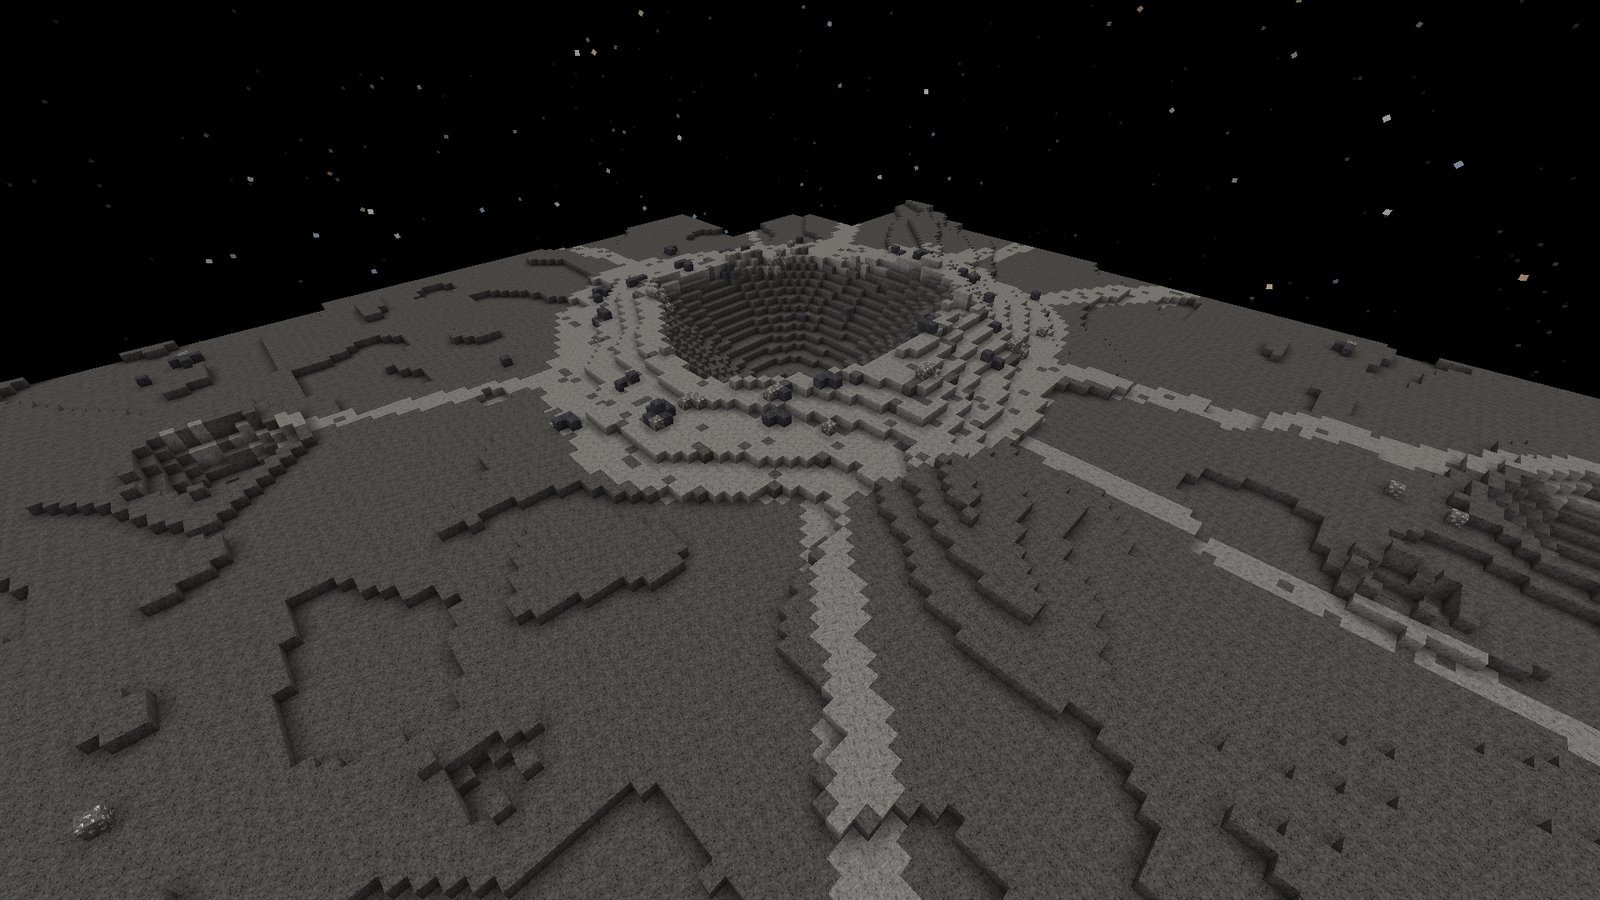
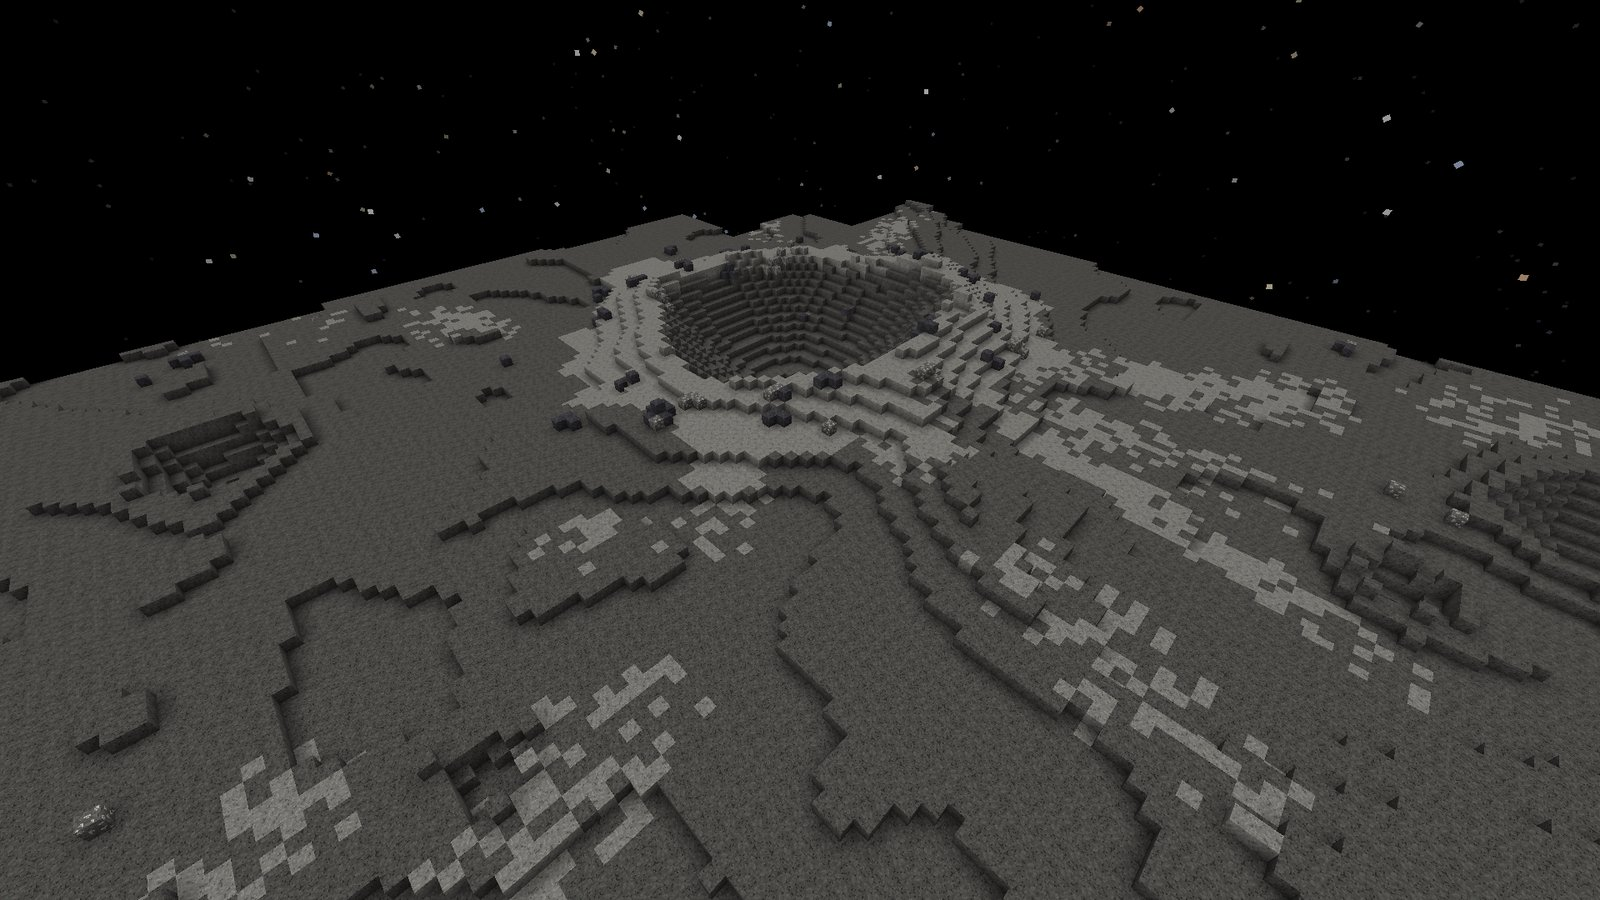
Moon: natural crater ray ejecta, Moon tech disks in dungeon loot (from dev/moon)

diff --git a/src/main/java/com/pizzaparker07/spacebreaker/content/worldgen/Crater.java b/src/main/java/com/pizzaparker07/spacebreaker/content/worldgen/Crater.java
@@ -85,20 +85,75 @@ public record Crater(double x, double z, double radius, double depth, double rim
         return 0.12 + 0.63 * s2 * s2;
     }
 
-    /** Strength (0..1) of the bright ray system at this point; 0 for old craters. */
+    /**
+     * Strength (0..1) of the bright ray system at this point; 0 for old craters. A ragged continuous halo
+     * near the rim, then a dozen or so streaks of thin ejecta: each with its own direction, length and width,
+     * slightly curved, some splitting into branches, tapering and breaking up into patches toward the tip.
+     * The generator turns this into a speckle probability, so rays thin out and fade with distance.
+     */
     public double ray(double px, double pz, double s, double rayLength) {
         if (!fresh || s < 0.95 || s > rayLength) {
             return 0;
         }
-        if (s < 1.7) {
-            return 1; // continuous bright ejecta halo
-        }
         double a = Mth.atan2(pz - z, px - x);
-        double p1 = ((seed >>> 32) & 0xFFFF) / 65535.0 * Mth.TWO_PI;
-        double p2 = ((seed >>> 48) & 0xFFFF) / 65535.0 * Mth.TWO_PI;
-        double v = Math.sin(11 * a + p1) + 0.75 * Math.sin(17 * a + p2) + 0.55 * Math.sin(29 * a + p1 + p2);
-        double need = 1.05 + 0.75 * (s - 1.7) / (rayLength - 1.7);
-        return v > need ? Math.min(1, (v - need) * 3) : 0;
+        // ragged halo of fresh, bright ejecta
+        double halo = 1.45 + 0.25 * valueNoise(a * 2.2, seed) + 0.15 * valueNoise(a * 7.1, seed + 1);
+        if (s < halo) {
+            return 1;
+        }
+        double best = 0;
+        int rays = 9 + (int) ((seed >>> 8) & 7);
+        for (int i = 0; i < rays; i++) {
+            long h = seed * 31 + i * 0x9E3779B97F4A7C15L;
+            double theta = unit(h, 0) * Mth.TWO_PI;
+            double len = halo + (rayLength - halo) * (0.35 + 0.65 * unit(h, 1));
+            if (s > len) {
+                continue;
+            }
+            double t = (s - halo) / (len - halo);                      // 0 at the halo, 1 at the tip
+            double curve = (unit(h, 2) - 0.5) * 0.25;
+            double width = (0.08 + 0.1 * unit(h, 3)) * (1 - 0.7 * t);  // angular half-width, tapering
+            double strength = (1 - t) * (0.75 + 0.25 * unit(h, 4));
+            best = Math.max(best, streak(a, theta + curve * t, width, strength, s, h));
+            // a branch splitting off part way out
+            double split = 0.3 + 0.4 * unit(h, 5);
+            if (unit(h, 6) < 0.55 && t > split) {
+                double side = unit(h, 7) < 0.5 ? -1 : 1;
+                double bt = (t - split) / (1 - split);
+                best = Math.max(best, streak(a, theta + curve * t + side * 0.18 * bt, width * 0.7, strength * 0.8, s, h + 17));
+            }
+        }
+        return best;
+    }
+
+    /** One streak: a soft-edged angular band, broken into patches along its length. */
+    private static double streak(double a, double theta, double width, double strength, double s, long h) {
+        double d = Math.abs(Mth.wrapDegrees(Math.toDegrees(a - theta))) * Mth.DEG_TO_RAD;
+        if (d >= width) {
+            return 0;
+        }
+        double across = Math.sqrt(1 - d / width);
+        double patches = 0.5 + 0.5 * valueNoise(s * 2.6, h);
+        double gaps = patches < 0.25 ? 0 : Math.min(1, (patches - 0.25) / 0.45);
+        return strength * across * gaps;
+    }
+
+    private static double unit(long h, int i) {
+        long v = h + i * 0x632BE59BD9B4E019L;
+        v = (v ^ (v >>> 30)) * 0xBF58476D1CE4E5B9L;
+        v = (v ^ (v >>> 27)) * 0x94D049BB133111EBL;
+        v ^= v >>> 31;
+        return (v >>> 11) * 0x1.0p-53;
+    }
+
+    /** Smooth 1-D value noise in [-1, 1] (wraps every 64 units). */
+    private static double valueNoise(double t, long h) {
+        int i = Mth.floor(t);
+        double f = t - i;
+        double u = f * f * (3 - 2 * f);
+        double v0 = unit(h, i & 63) * 2 - 1;
+        double v1 = unit(h, (i + 1) & 63) * 2 - 1;
+        return v0 + (v1 - v0) * u;
     }
 
     static double smooth(double t) {

diff --git a/src/testmod/java/com/pizzaparker07/spacebreaker/testmod/moon/MoonGameTests.java b/src/testmod/java/com/pizzaparker07/spacebreaker/testmod/moon/MoonGameTests.java
@@ -207,6 +207,43 @@ public final class MoonGameTests {
         helper.succeed();
     }
 
+    @GameTest(template = EMPTY, timeoutTicks = 400)
+    public static void moonDungeonsGenerateNaturally(GameTestHelper helper) {
+        long seed = 20261106L;
+        PlanetChunkGenerator gen = moonGenerator(helper, seed);
+        var access = helper.getLevel().registryAccess();
+        var state = net.minecraft.world.level.levelgen.RandomState.create(net.minecraft.world.level.levelgen.NoiseGeneratorSettings.dummy(),
+                access.lookupOrThrow(net.minecraft.core.registries.Registries.NOISE), seed);
+        var structureState = gen.createState(access.lookupOrThrow(net.minecraft.core.registries.Registries.STRUCTURE_SET), state, seed);
+        LevelHeightAccessor height = LevelHeightAccessor.create(-64, 384);
+        var structures = access.registryOrThrow(net.minecraft.core.registries.Registries.STRUCTURE);
+        for (var key : List.of(com.pizzaparker07.spacebreaker.content.moon.dungeon.MoonStructures.OUTPOST_KEY,
+                com.pizzaparker07.spacebreaker.content.moon.dungeon.MoonStructures.LAVA_TUBE_KEY)) {
+            var holder = structures.getHolderOrThrow(key);
+            var placements = structureState.getPlacementsForStructure(holder);
+            helper.assertTrue(!placements.isEmpty(), key.location() + " has no placement on the Moon");
+            int candidates = 0;
+            int valid = 0;
+            for (int cx = -80; cx <= 80 && valid < 3; cx++) {
+                for (int cz = -80; cz <= 80 && valid < 3; cz++) {
+                    if (!placements.get(0).isStructureChunk(structureState, cx, cz)) {
+                        continue;
+                    }
+                    candidates++;
+                    var ctx = new net.minecraft.world.level.levelgen.structure.Structure.GenerationContext(access, gen, gen.getBiomeSource(), state,
+                            helper.getLevel().getStructureManager(), seed, new net.minecraft.world.level.ChunkPos(cx, cz), height,
+                            b -> holder.value().biomes().contains(b));
+                    if (holder.value().findValidGenerationPoint(ctx).isPresent()) {
+                        valid++;
+                    }
+                }
+            }
+            helper.assertTrue(candidates > 0, key.location() + ": no candidate chunks");
+            helper.assertTrue(valid > 0, key.location() + ": " + candidates + " candidate chunks but none valid");
+        }
+        helper.succeed();
+    }
+
     // ------------------------------------------------------------------ time and sky
 
     @GameTest(template = EMPTY)

diff --git a/src/testmod/java/com/pizzaparker07/spacebreaker/testmod/showcase/MoonScenario.java b/src/testmod/java/com/pizzaparker07/spacebreaker/testmod/showcase/MoonScenario.java
@@ -39,14 +39,6 @@ final class MoonScenario implements ShowcaseScenario {
         level.getServer().setDifficulty(net.minecraft.world.Difficulty.NORMAL, true);
         MoonShowcaseBuilder.build(level, terrain);
         MoonShowcaseBuilder.buildDungeons(level, terrain);
-        // check that the dungeons also generate naturally
-        var structures = level.registryAccess().registryOrThrow(net.minecraft.core.registries.Registries.STRUCTURE);
-        for (var key : List.of(com.pizzaparker07.spacebreaker.content.moon.dungeon.MoonStructures.OUTPOST_KEY,
-                com.pizzaparker07.spacebreaker.content.moon.dungeon.MoonStructures.LAVA_TUBE_KEY)) {
-            var found = level.getChunkSource().getGenerator().findNearestMapStructure(level,
-                    net.minecraft.core.HolderSet.direct(structures.getHolderOrThrow(key)), net.minecraft.core.BlockPos.ZERO, 64, false);
-            ShowcaseDriver.log("nearest " + key.location() + ": " + (found == null ? "none" : found.getFirst().toShortString()));
-        }
     }
 
     private PlanetTerrain terrain() {
@@ -127,6 +119,8 @@ final class MoonScenario implements ShowcaseScenario {
         if (fresh != null) {
             s.add(new ShowcaseDriver.Shot("08_rayed_crater", 0, fresh.x() + fresh.radius() * 2.5, ground(fresh.x(), fresh.z()) + fresh.radius() * 2.2,
                     fresh.z() + fresh.radius() * 2.5, yaw(-1, -1), 38F, true, fp, 260, at(0.25), null));
+            s.add(new ShowcaseDriver.Shot("08b_rays_overhead", 0, fresh.x() + 0.5, ground(fresh.x(), fresh.z()) + fresh.radius() * 7, fresh.z() + 0.5,
+                    180F, 90F, true, fp, 600, at(0.25), MoonScenario::farView));
         }
 
         // 9-10: the south pole region: low sun, icy shadowed crater floors

diff --git a/src/testmod/java/com/pizzaparker07/spacebreaker/testmod/moon/MoonLifeGameTests.java b/src/testmod/java/com/pizzaparker07/spacebreaker/testmod/moon/MoonLifeGameTests.java
@@ -106,8 +106,12 @@ public final class MoonLifeGameTests {
                 MoonLoot.LAVA_TUBE_PROBE)) {
             helper.assertTrue(server.reloadableRegistries().getLootTable(key) != LootTable.EMPTY, "loot table " + key.location());
         }
-        helper.assertTrue(server.reloadableRegistries().getKeys(Registries.LOOT_TABLE).contains(MoonLoot.TECH_DATA.location()),
-                "tech data hook table must exist for the research disks");
+        var params = new net.minecraft.world.level.storage.loot.LootParams.Builder(helper.getLevel())
+                .withParameter(net.minecraft.world.level.storage.loot.parameters.LootContextParams.ORIGIN, helper.absoluteVec(net.minecraft.world.phys.Vec3.ZERO))
+                .create(net.minecraft.world.level.storage.loot.parameters.LootContextParamSets.CHEST);
+        var disks = server.reloadableRegistries().getLootTable(MoonLoot.TECH_DATA).getRandomItems(params);
+        helper.assertTrue(!disks.isEmpty() && disks.stream().allMatch(st -> net.minecraft.core.registries.BuiltInRegistries.ITEM.getKey(st.getItem())
+                .equals(Spacebreaker.id("tech_disk"))), "Moon tech data must roll tech disks, got " + disks);
         helper.succeed();
     }
 

diff --git a/src/main/java/com/pizzaparker07/spacebreaker/content/worldgen/PlanetChunkGenerator.java b/src/main/java/com/pizzaparker07/spacebreaker/content/worldgen/PlanetChunkGenerator.java
@@ -155,7 +155,8 @@ public class PlanetChunkGenerator extends ChunkGenerator {
             soil = mat.polarSoil().get();
         } else if (c.volcanic && mat.volcanicSoil().isPresent()) {
             soil = mat.volcanicSoil().get();
-        } else if (c.ray + jitter > 0.45 && PlanetTerrain.unit(h, 1) < 0.92) {
+        } else if (c.ray > 0 && PlanetTerrain.unit(h, 1) < Math.min(1, c.ray * 1.5)) {
+            // speckled: dense near the crater, sparse and fading toward the ray tips
             soil = mat.raySoil();
         } else {
             soil = lowland ? mat.lowlandSoil() : mat.highlandSoil();
